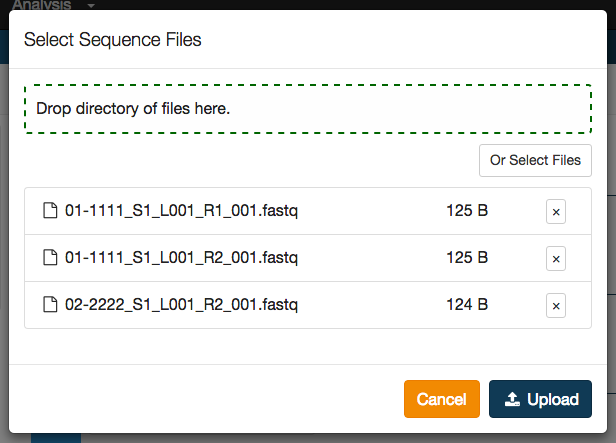
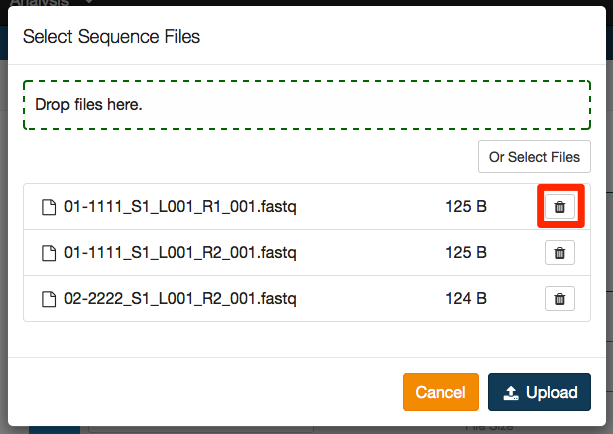
Repace the remove 'x' with a trash can and updated docs

diff --git a/src/main/webapp/pages/samples/sample_files.html b/src/main/webapp/pages/samples/sample_files.html
@@ -157,7 +157,7 @@
 				<li class="list-group-item seq-file" ng-repeat="file in modalCtrl.files">
 					<div class="seq-file_name"><span class="fa fa-fw fa-file-o"></span>&nbsp;{{file.name}}</div>
 					<div class="seq-file_size">{{file.size | humanReadableBytes}}</div>
-					<div class="seq-file_remove"><button type="button" class="btn btn-default btn-xs" data-dismiss="alert" aria-label="Remove" ng-click="modalCtrl.remove(file)"><span aria-hidden="true">&times;</span></button></div>
+					<div class="seq-file_remove"><button type="button" class="btn btn-default btn-xs pull-right" data-dismiss="alert" aria-label="Remove" ng-click="modalCtrl.remove(file)"><span class="fa fa-fw fa-trash"></span></button></div>
 				</li>
 			</ul>
 			<div class="alert alert-warning" role="alert" ng-show="modalCtrl.rejects.length">

diff --git a/doc/user/user/samples/index.md b/doc/user/user/samples/index.md
@@ -77,7 +77,7 @@ You may also upload files by clicking on the "Or Select Files" button:
 
 ![Select files button.](images/upload-sample-file-select-file-btn.png)
 
-The added files will be displayed in the pop-up window, and can be removed before upload by clicking the `x` button to the right of the file size.
+The added files will be displayed in the pop-up window, and can be removed before upload by clicking the trash can button to the right of the file size.
 
 ![Selected files.](images/upload-sample-file-dropped-dir.png)
 
